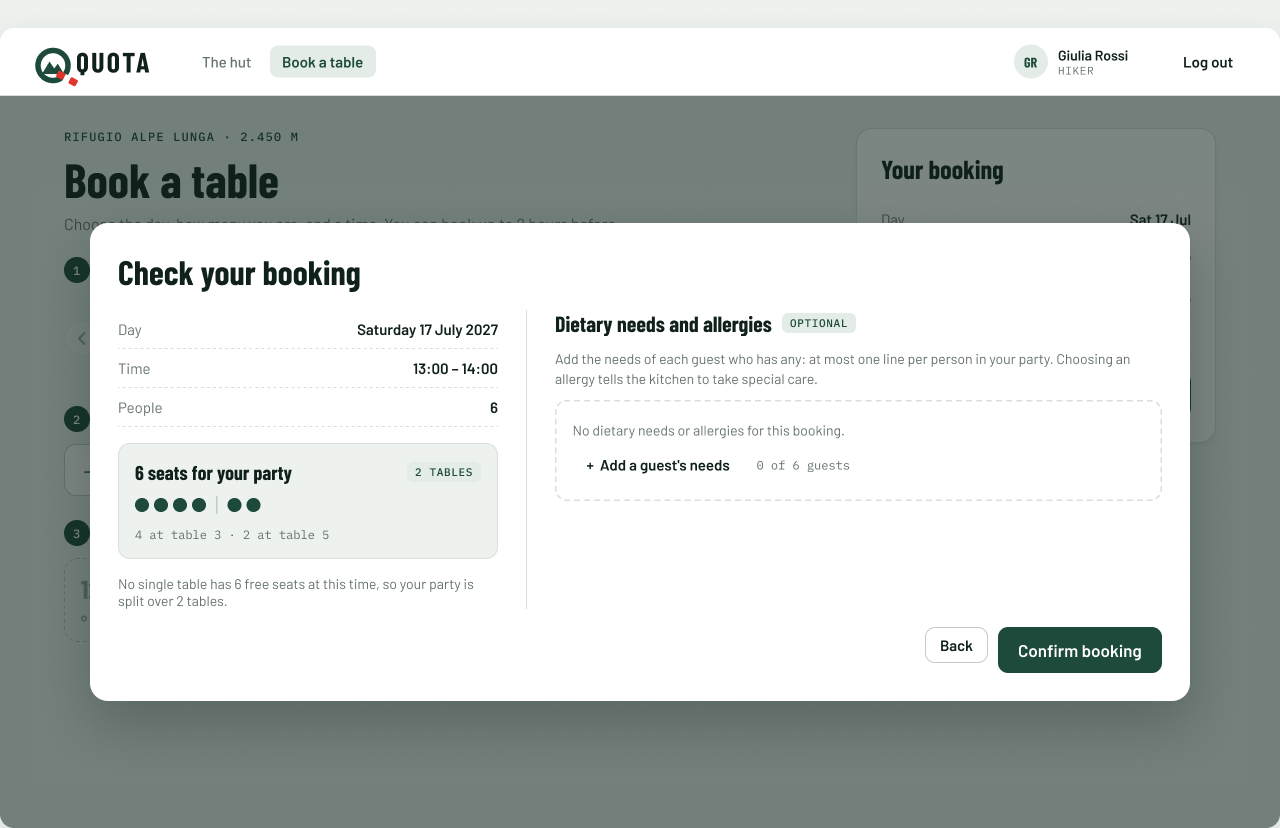
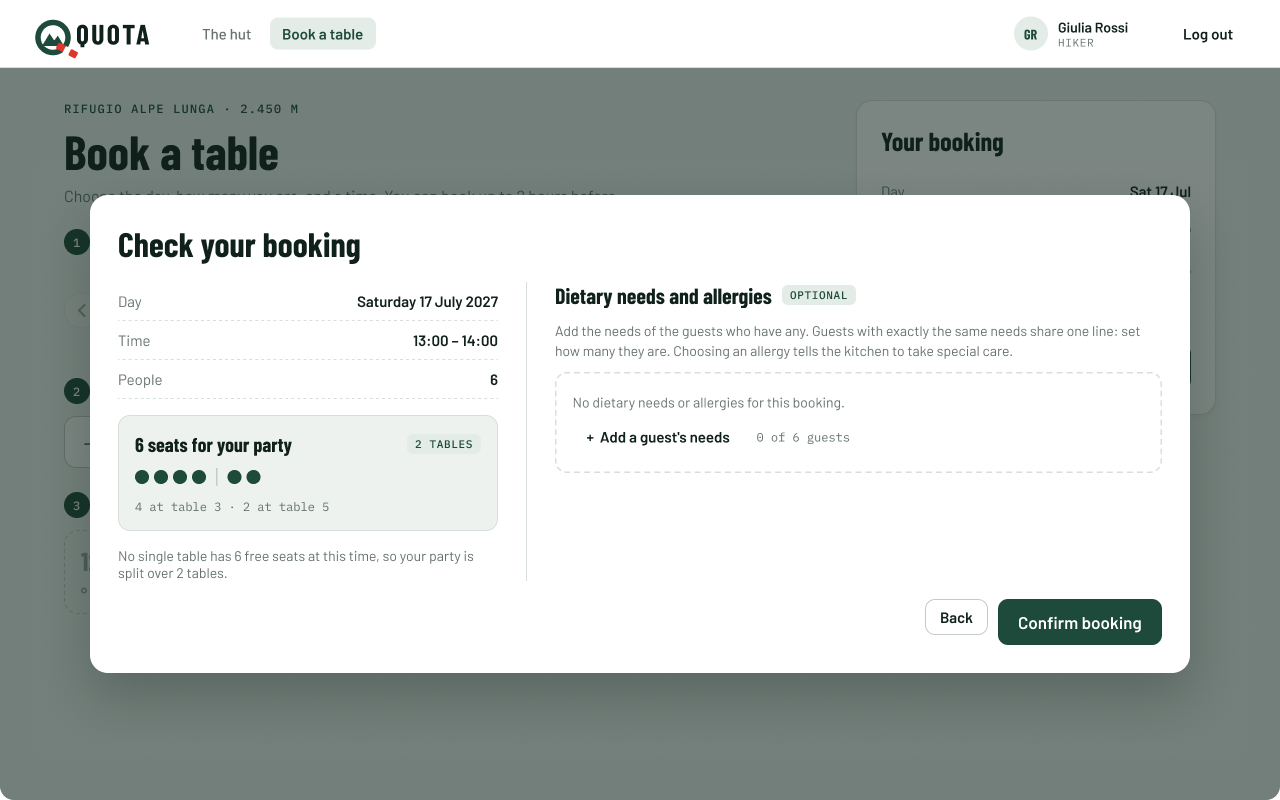
docs: add guest count per line and align MH-05 mockup with the backend
- Each line of dietary needs now has a Guests stepper (how many guests
  have exactly these needs); the counter adds up the guests of all lines.
  The frontend expands a line of N guests into N requirements, so the
  backend is unchanged.
- Diets: any number, but at most one of Vegetarian, Vegan, Pescatarian.
- Text limits as in the backend: 100 characters for Other, 300 for
  Other requests, with helper and error texts.
- PO example with four guests (two vegetarians grouped as x2).
- Screens 1-4 and phone 1 exported again; screen 4 renamed to
  04-every-guest-counted.png.

diff --git a/docs/mockups/dietary/README.md b/docs/mockups/dietary/README.md
@@ -13,8 +13,9 @@ Mockup for story **MH-05 Dietary needs and allergies**, used by the booking fron
 | Story | Dietary restrictions and allergies are given for people in the party, so the hut can prepare suitable meals safely. |
 | Story notes | An allergy is flagged, so that special care is taken in the preparation. |
 | PO answer | A booking has a **list of requirements**, each for part of the party, each with its own allergy flag. Example: yes "1 vegan, peanut allergy" · yes "1 shellfish allergy" · no "2 vegetarians". |
-| Team choice | **One line per guest**, so a party of N people has at most N lines. Each line holds the needs of one person. |
-| Team choice | **Preset options instead of free text.** The needs are chosen with cards (icon in the middle, name centred below). *Diet* and *Allergies*: any number of each. In both groups *Other* opens a text field, for a diet or an allergy that is not in the list (e.g. halal, sesame). |
+| Team choice | **One line per group of guests with exactly the same needs**, with **how many guests** they are (*Guests*, from 1). E.g. "3 guests: Vegan" and "1 guest: Vegan + Peanuts" instead of four lines. The guests of all the lines are at most the people in the party. |
+| Team choice | The **backend does not change**: before `POST /api/bookings` the frontend turns a line of N guests into N equal requirements, one per guest, as the API expects. |
+| Team choice | **Preset options instead of free text.** The needs are chosen with cards (icon in the middle, name centred below). *Diet* and *Allergies*: any number of each, but **at most one of Vegetarian, Vegan and Pescatarian**, which exclude each other (as in the backend). In both groups *Other* opens a text field, for a diet or an allergy that is not in the list (e.g. halal, sesame). |
 | Team choice | The **allergy flag is set by the system**: a line is an allergy when at least one *Allergy* card is chosen. Allergy cards and chips are red, diets are green. |
 | Team choice | **Other requests**: each line also has an optional free text for anything else the kitchen should know, that is not a diet or an allergy (e.g. no spicy food, a small portion). |
 | Team choice | In the confirmation, **guests with the same needs are grouped** in one card with **×N** (how many guests). Guests are not numbered there. The summary grows with the number of different combinations, not with the people (screen 6). |
@@ -24,21 +25,21 @@ Mockup for story **MH-05 Dietary needs and allergies**, used by the booking fron
 
 | Group | Choice | Options |
 |---|---|---|
-| Diet | any number | Vegetarian · Vegan · Pescatarian · Lactose-free · Other (with a text field) |
+| Diet | any number, at most one of Vegetarian, Vegan, Pescatarian | Vegetarian · Vegan · Pescatarian · Lactose-free · Other (with a text field) |
 | Allergies | any number | Gluten · Milk · Eggs · Peanuts · Tree nuts · Fish · Shellfish · Other (with a text field) |
 
-The PO example becomes: Guest 1 *Vegan* + *Peanuts*, Guest 2 *Shellfish*, Guest 3 *Vegetarian*.
+The PO example becomes three lines: 1 guest *Vegan* + *Peanuts*, 1 guest *Shellfish*, 2 guests *Vegetarian* (screen 2). They are sent as four requirements, and in *Table booked* the two vegetarians share one card with ×2.
 
 ## The flow
 
 The first three steps of [Book a table](../booking/README.md#the-flow) (day, people, time) do not change.
 
 1. **Review booking** opens *Check your booking*. On a computer the dialog has two columns: on the left the summary of MH-01 (day, time, people, the tables chosen), on the right **Dietary needs and allergies**, marked *Optional*. On a phone the sheet scrolls and the needs come after the summary, right above *Confirm booking*.
-2. With no lines yet, the right column says "No dietary needs or allergies for this booking." and offers **+ Add a guest's needs**. Next to the button a counter shows the lines used out of the people in the party ("0 of 6 guests").
-3. **+ Add a guest's needs** opens the editor of a new guest (*Guest 1*, *Guest 2*…): the *Diet* cards, the *Allergies* cards and the *Other requests* field. Tapping a card selects it (border, tinted background, check mark); tapping it again unselects it. More than one diet can be chosen (e.g. *Vegan* and *Lactose-free*).
-4. When another guest is added, the guest being edited folds into a row: its name, a chip per choice (green diet, red allergy), **Edit** to open it again and **×** to remove it. Only one guest is open at a time.
-5. When every person of the party has a line, **+ Add a guest's needs** is disabled and the counter says "every guest has a line". Removing a line frees it again. If the hiker goes **Back** and makes the party smaller than the number of lines, the extra lines must be removed before confirming.
-6. **Confirm booking** sends the booking and its lines in the same request (`POST /api/bookings`). The dialog stays open, with the problem marked, when a guest has no card chosen and no request, or *Other* (diet or allergy) is chosen with an empty field. **Back** keeps every choice, the lines too.
+2. With no lines yet, the right column says "No dietary needs or allergies for this booking." and offers **+ Add a guest's needs**. Next to the button a counter shows the guests counted in the lines out of the people in the party ("0 of 6 guests").
+3. **+ Add a guest's needs** opens the editor of a new line: its title ("1 guest", "2 guests"…), **Guests** (a − / + stepper, from 1, how many guests have exactly these needs), the *Diet* cards, the *Allergies* cards and the *Other requests* field. Tapping a card selects it (border, tinted background, check mark); tapping it again unselects it. More than one diet can be chosen (e.g. *Vegan* and *Lactose-free*), but Vegetarian, Vegan and Pescatarian exclude each other: choosing one of them unselects the other two.
+4. When another line is added, the line being edited folds into a row: how many guests ("2 guests"), a chip per choice (green diet, red allergy), **Edit** to open it again and **×** to remove it. Only one line is open at a time.
+5. When every person of the party is counted in a line, **+ Add a guest's needs** and the **+** of *Guests* are disabled, and the counter says "every guest is counted". Removing a line, or lowering its *Guests*, frees them again. If the hiker goes **Back** and makes the party smaller than the guests counted, lines must be removed or lowered before confirming.
+6. **Confirm booking** sends the booking and its requirements in the same request (`POST /api/bookings`): each line becomes as many requirements as its guests. The dialog stays open, with the problem marked, when a line has no card chosen and no request, or *Other* (diet or allergy) is chosen with an empty field, or a text is longer than its limit (100 characters for *Other*, 300 for *Other requests*). **Back** keeps every choice, the lines too.
 7. **Table booked** lists the needs as saved, in a grid of cards (3 per row, 2 on a phone). Guests with exactly the same needs (diet, allergies and request) share one card: a people icon with **×N**, the chips, and the request in quotes under them. With no needs the card is the same as in MH-01.
 
    Every card starts from the top, so the ×N of the cards of a row are on one line and the chips on the next one, also when one card has a request and the others do not. The cards of a row have the same height. The chips show the **allergies first** (red), then the diets (green), and wrap when they do not fit. The request goes under them, on as many lines as needed. A single card of a party takes the whole width (screen 7).
@@ -48,14 +49,14 @@ The first three steps of [Book a table](../booking/README.md#the-flow) (day, peo
 | # | Screen | Image |
 |---|---|---|
 | 1 | Check your booking, no dietary needs yet | ![Check your booking, no needs](01-check-no-needs.png) |
-| 2 | Choosing the needs of a guest (the PO example), with an other request | ![Choosing the needs of a guest](02-choosing-a-guest.png) |
+| 2 | Choosing the needs of a line of 2 guests (the PO example), with an other request | ![Choosing the needs of a guest](02-choosing-a-guest.png) |
 | 3 | *Other* allergy without a name | ![Other allergy without a name](03-other-allergy-without-name.png) |
-| 4 | Party of 2: every guest has a line | ![Every guest has a line](04-every-guest-has-a-line.png) |
+| 4 | Party of 2: every guest is counted | ![Every guest is counted](04-every-guest-counted.png) |
 | 5 | Table booked with dietary needs, grouped with ×N | ![Table booked with needs](05-table-booked-with-needs.png) |
 | 6 | Big party with shared needs: 22 people, 20 with needs, in 4 cards | ![Big party with shared needs](06-big-party-shared-needs.png) |
 | 7 | One guest with many needs: five allergies, a diet and a long request | ![One guest with many needs](07-one-guest-many-needs.png) |
 
-Screens 2 and 3 are taller than 800 px to show the dialog in full (with *Other* in the Diet group the cards take two lines). On a smaller window the dialog scrolls.
+Screens 2 and 3 are taller than 800 px to show the dialog in full (with *Other* in the Diet group the cards take two lines, and the editor has the *Guests* stepper). On a smaller window the dialog scrolls.
 
 ### On a phone
 
@@ -72,38 +73,41 @@ The same website in a phone browser, as in MH-01. The dialog becomes a sheet fro
 |---|---|---|
 | *Icon / Food / …* | one per option | 24 px line icons: Vegetarian, Vegan, Pescatarian, Lactose-free, Gluten, Milk, Eggs, Peanuts, Tree nuts, Fish, Shellfish, Other. |
 | *Need card* | Kind = Diet / Allergy × State = Default / Selected | One option: icon in the middle, name centred below. Properties *Name* (text) and *Icon* (swap). Selected diet is green, selected allergy is red. |
-| *Need chip* | Kind = Diet / Allergy | Read-only chip of a chosen option, in the guest rows and in the confirmation. Property *Name*. |
-| *Guest needs editor* | Size = Desktop / Phone | The open editor of one guest: name, ×, the Diet cards, the Allergies cards, the *Other* field and the *Other requests* field. Properties *Guest* (text), *Show other field* (boolean, the *Other* allergy field) and *Show other diet field* (boolean, the *Other* diet field). |
+| *Need chip* | Kind = Diet / Allergy | Read-only chip of a chosen option, in the folded lines and in the confirmation. Property *Name*. |
+| *Guest needs editor* | Size = Desktop / Phone | The open editor of one line: title (how many guests), ×, *Guests* (a *People stepper*), the Diet cards, the Allergies cards, the *Other* field and the *Other requests* field. Properties *Guest* (text), *Show other field* (boolean, the *Other* allergy field) and *Show other diet field* (boolean, the *Other* diet field). |
 
 ## Texts and server answers
 
 | When | What the hiker sees |
 |---|---|
 | Section title | Dietary needs and allergies · OPTIONAL |
-| Help under the title | Add the needs of each guest who has any: at most one line per person in your party. Choosing an allergy tells the kitchen to take special care. |
+| Help under the title | Add the needs of the guests who have any. Guests with exactly the same needs share one line: set how many they are. Choosing an allergy tells the kitchen to take special care. (On a phone: "Guests with the same needs share one line. An allergy tells the kitchen to take special care.") |
 | No lines | No dietary needs or allergies for this booking. · **+ Add a guest's needs** · 0 of *N* guests |
-| Group labels | DIET · choose all that apply / ALLERGIES · choose all that apply / OTHER REQUESTS · optional · not a diet or an allergy |
-| Other requests field | "Anything else the kitchen should know?", placeholder "e.g. no spicy food, a small portion" |
-| Counter | *K* of *N* guests |
-| Every guest has a line | Button disabled, "*N* of *N* guests · every guest has a line" |
-| *Other* allergy chosen | Field "Which allergy?", placeholder "e.g. sesame, celery, mustard" |
-| *Other* diet chosen | Field "Which diet?", placeholder "e.g. halal, kosher" |
+| Group labels | DIET · choose all that apply · at most one of Vegetarian, Vegan, Pescatarian / ALLERGIES · choose all that apply / OTHER REQUESTS · optional · not a diet or an allergy |
+| Other requests field | "Anything else the kitchen should know?", placeholder "e.g. no spicy food, a small portion", helper "Up to 300 characters." |
+| Line title | "1 guest" / "*K* guests", the same in the folded row |
+| Guests stepper | GUESTS · how many guests have exactly these needs, − *K* + |
+| Counter | *K* of *N* guests (the guests of all the lines) |
+| Every guest is counted | Button and *Guests* + disabled, "*N* of *N* guests · every guest is counted" |
+| *Other* allergy chosen | Field "Which allergy?", placeholder "e.g. sesame, celery, mustard", helper "Up to 100 characters." |
+| *Other* diet chosen | Field "Which diet?", placeholder "e.g. halal, kosher", helper "Up to 100 characters." |
+| A text longer than its limit, on Confirm | The field is marked in red: "Too long: at most 100 characters." (*Other*) or "Too long: at most 300 characters." (*Other requests*). Nothing is sent. |
 | *Other* left empty, on Confirm | Under the field, in red: "Write which allergy, or unselect Other." (or "Write which diet, or unselect Other.") Nothing is sent. |
-| A guest with no card and no request, on Confirm | The guest is marked the same way. Nothing is sent. |
+| A line with no card and no request, on Confirm | The line is marked the same way. Nothing is sent. |
 | Server saved the booking (`201`) | Table booked, with *Dietary needs · K of N guests* and one card per group of guests with the same needs: ×*count*, the chips, the request in quotes. |
-| Invalid request (`400`, e.g. more lines than people) | Checked in the browser first, so it should not happen. If it does, the general message "Something went wrong on our side. Try again in a minute." |
+| Invalid request (`400`, e.g. more requirements than people) | Checked in the browser first, so it should not happen. If it does, the general message "Something went wrong on our side. Try again in a minute." |
 | Seats gone meanwhile (`409`) | As in MH-01 (screen 5). The lines are kept with the other choices. |
 
 ## Data
 
 What the screens need from the API. The field names are for the backend task to decide:
 
-- a booking has a list of guest lines, possibly empty, with **at most as many lines as people** in the party;
-- each line has **any number of diets** from the fixed list, an **other diet** text (required only when the diet *Other* is chosen), **any number of allergies** from the fixed list, an **other allergy** text (required only when the allergy *Other* is chosen) and an optional **other requests** text;
-- a line has at least one choice or a request;
-- the **allergy flag** of a line is true when it has at least one allergy. It is derived, so the client does not send it;
-- the order of the lines is the order in which the hiker added them;
-- the grouping with ×N in the confirmation is only how the lines are shown: the lines are saved one per guest.
+- a booking has a list of requirements, one per guest, possibly empty, with **at most as many requirements as people** in the party. The lines of the screen (with *Guests* = N) are expanded by the frontend into N equal requirements, so the API does not know about them;
+- each requirement has **any number of diets** from the fixed list (at most one of Vegetarian, Vegan, Pescatarian), an **other diet** text (required only when the diet *Other* is chosen, at most 100 characters), **any number of allergies** from the fixed list, an **other allergy** text (required only when the allergy *Other* is chosen, at most 100 characters) and an optional **other requests** text (at most 300 characters);
+- a requirement has at least one choice or a request;
+- the **allergy flag** of a requirement is true when it has at least one allergy. It is derived, so the client does not send it;
+- the order of the requirements is the order in which the hiker added the lines;
+- the grouping with ×N in the confirmation is only how the requirements are shown: they are saved one per guest.
 
 ## Left out on purpose
 
@@ -114,6 +118,5 @@ These belong to other stories and are added with them: how the hut staff read th
 Not asked to the product owner yet. The mockup does not depend on the answers, only the lists would change:
 
 - Which diets and allergies are in the preset lists. Today: 4 diets and 7 allergies, each group with *Other*.
-- The maximum length of the *Other requests* text.
 
 Sample data (hut, names, dates, tables, needs) is invented for the mockup.
